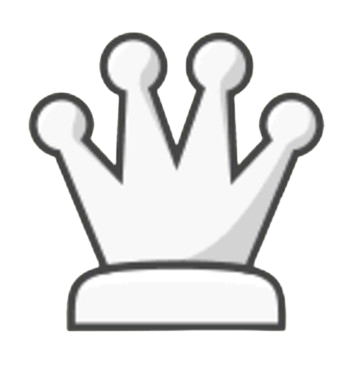
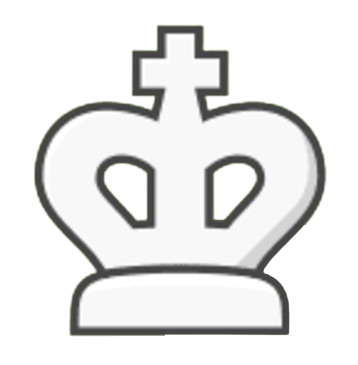
jaque rey

Changed region(s): [[0.0615, 0.0603, 0.9218, 0.9342]]

diff --git a/juego.py b/juego.py
@@ -14,7 +14,7 @@ class Juego:
 
         self.configuracion = menu.cargar_configuracion()
         self.modificador_tamano = self.configuracion["tamano"]
-        
+        self.ganador = None 
 
         pygame.init()
         self.TAMANO_CASILLA = int(60 * self.modificador_tamano)
@@ -322,6 +322,15 @@ class Juego:
                 
                 if self.tablero.esta_en_jaque(fila_rey, columna_rey, tablero_rey) == True:
                     print("Jaque")
+                if self.verificar_victoria():
+                    color, motivo = self.ganador
+                    if color == "Negras":
+                        self.mostrar_mensaje_victoria()
+                        
+                    else:
+                        self.mostrar_mensaje_victoria()
+            
+                    return
             
             self.pieza_seleccionada = None
             self.tablero_seleccionado = None
@@ -367,6 +376,88 @@ class Juego:
                 if self.tablero.esta_en_jaque(fila_rey, columna_rey, tablero_rey) == True:
                     print("Jaque")
 
+    def verificar_victoria(self):
+        # Verificar si algún rey ha sido capturado
+        reyes_blancos = self.contar_reyes(Color.BLANCO)
+        reyes_negros = self.contar_reyes(Color.NEGRO)
+        
+        if reyes_blancos == 0:
+            self.mostrar_mensaje_victoria()
+            self.ganador = ("Negras", "captura")
+            return True
+        elif reyes_negros == 0:
+            self.mostrar_mensaje_victoria()
+            self.ganador = ("Blancas", "captura")
+            return True
+        
+        # Verificar jaque
+        for tablero_num in [1, 2]:
+            for fila in range(8):
+                for columna in range(8):
+                    pieza = self.tablero.obtener_pieza(tablero_num, fila, columna)
+                    if pieza and pieza[0] == Pieza.REY:
+                        if self.tablero.esta_en_jaque(fila, columna, tablero_num):
+                            if pieza[1] == Color.BLANCO:
+                                self.ganador = ("Negras", "jaque")
+                                return True
+                            else:
+                                self.ganador = ("Blancas", "jaque")
+                                return True
+        return False
+        
+    def contar_reyes(self, color):
+        """Cuenta cuántos reyes """
+        contador = 0
+        for tablero_num in [1, 2]:
+            for fila in range(8):
+                for columna in range(8):
+                    pieza = self.tablero.obtener_pieza(tablero_num, fila, columna)
+                    if pieza and pieza[0] == Pieza.REY and pieza[1] == color:
+                        contador += 1
+        return contador
+        
+
+    def mostrar_mensaje_victoria(self):
+        # Crear una superficie para el cuadro de diálogo
+        dialogo_ancho = 600
+        dialogo_alto = 200
+        dialogo = pygame.Surface((dialogo_ancho, dialogo_alto))
+        dialogo.set_alpha(200)
+        dialogo.fill((0, 0, 0))
+
+        font = pygame.font.Font(None, 36)
+        texto = font.render(f"¡{self.ganador[0]} han ganado por {self.ganador[1]}!", True, (255, 255, 255))
+        texto_rect = texto.get_rect(center=(dialogo_ancho // 2, 50))
+        dialogo.blit(texto, texto_rect)
+
+        # Crear botón para volver al menú
+        boton_ancho = 200
+        boton_alto = 50
+        boton_menu = pygame.Rect(dialogo_ancho // 2 - boton_ancho // 2, 120, boton_ancho, boton_alto)
+        pygame.draw.rect(dialogo, (0, 255, 0), boton_menu)
+        texto_menu = font.render("Volver al menú", True, (0, 0, 0))
+        dialogo.blit(texto_menu, texto_menu.get_rect(center=boton_menu.center))
+
+        # Centrar el cuadro de diálogo
+        dialogo_x = self.ANCHO // 2 - dialogo_ancho // 2
+        dialogo_y = self.ALTO // 2 - dialogo_alto // 2
+        self.pantalla.blit(dialogo, (dialogo_x, dialogo_y))
+        pygame.display.flip()
+
+        while True:
+            for evento in pygame.event.get():
+                if evento.type == pygame.QUIT:
+                    pygame.quit()
+                    sys.exit()
+                elif evento.type == pygame.MOUSEBUTTONDOWN:
+                    clic_x, clic_y = evento.pos
+                    # Ajustar las coordenadas del clic para la posición del cuadro de diálogo
+                    clic_x -= dialogo_x
+                    clic_y -= dialogo_y
+                    if boton_menu.collidepoint((clic_x, clic_y)):
+                        pygame.mixer.Sound("sonidos/apuntarBoton.wav").play()
+                        menu.main_menu()
+                        return
 
 
     def dibujar_piezas(self):

diff --git a/min_Max.py b/min_Max.py
@@ -40,9 +40,42 @@ class MinMax:
                             centro_fila = 3.5 - abs(3.5 - fila)
                             centro_col = 3.5 - abs(3.5 - columna)
                             valor += (centro_fila + centro_col) * 10 * multiplicador
-        
-        return valor
+                        # Bonificaciones adicionales para el peón
+                        if pieza[0] == Pieza.PEON:
+                            # Penalización por peones doblados
+                            peones_columna = sum(1 for f in range(8) 
+                                              if tablero.obtener_pieza(tablero_num, f, columna) == pieza)
+                            if peones_columna > 1:
+                                valor -= 20 * multiplicador
+                            
+                            # Penalización por peones aislados
+                            peones_adyacentes = False
+                            for c in [columna-1, columna+1]:
+                                if 0 <= c < 8:
+                                    for f in range(8):
+                                        if tablero.obtener_pieza(tablero_num, f, c) == pieza:
+                                            peones_adyacentes = True
+                                            break
+                            if not peones_adyacentes:
+                                valor -= 30 * multiplicador
 
+        # Rey en jaque
+        for tablero_num in [1, 2]:
+            rey_encontrado = False
+            for fila in range(8):
+                for columna in range(8):
+                    pieza = tablero.obtener_pieza(tablero_num, fila, columna)
+                    if pieza and pieza[0] == Pieza.REY and pieza[1] == self.color:
+                        rey_encontrado = True
+                    
+                        if tablero.esta_en_jaque(fila, columna, tablero_num):
+                            valor -= 100
+                        break
+                if rey_encontrado:
+                    break
+                    
+        return valor
+   
     def minimax(self, tablero, profundidad, alfa, beta, es_maximizador):
         """
         Implementación del algoritmo Minimax con poda alfa-beta

diff --git a/tablero.py b/tablero.py
@@ -112,8 +112,8 @@ class Tablero:
         # Inicializar piezas negras
         self.tablero1[0] = [
             (Pieza.TORRE, Color.NEGRO), (Pieza.CABALLO, Color.NEGRO),
-            (Pieza.ALFIL, Color.NEGRO), (Pieza.DAMA, Color.NEGRO),
-            (Pieza.REY, Color.NEGRO), (Pieza.ALFIL, Color.NEGRO),
+            (Pieza.ALFIL, Color.NEGRO), (Pieza.REY, Color.NEGRO),
+            (Pieza.DAMA, Color.NEGRO), (Pieza.ALFIL, Color.NEGRO),
             (Pieza.CABALLO, Color.NEGRO), (Pieza.TORRE, Color.NEGRO)
         ]
         for i in range(8):
@@ -122,8 +122,8 @@ class Tablero:
         # Inicializar piezas blancas
         self.tablero1[7] = [
             (Pieza.TORRE, Color.BLANCO), (Pieza.CABALLO, Color.BLANCO),
-            (Pieza.ALFIL, Color.BLANCO), (Pieza.DAMA, Color.BLANCO),
-            (Pieza.REY, Color.BLANCO), (Pieza.ALFIL, Color.BLANCO),
+            (Pieza.ALFIL, Color.BLANCO), (Pieza.REY, Color.BLANCO),
+            (Pieza.DAMA, Color.BLANCO), (Pieza.ALFIL, Color.BLANCO),
             (Pieza.CABALLO, Color.BLANCO), (Pieza.TORRE, Color.BLANCO)
         ]
         for i in range(8):
